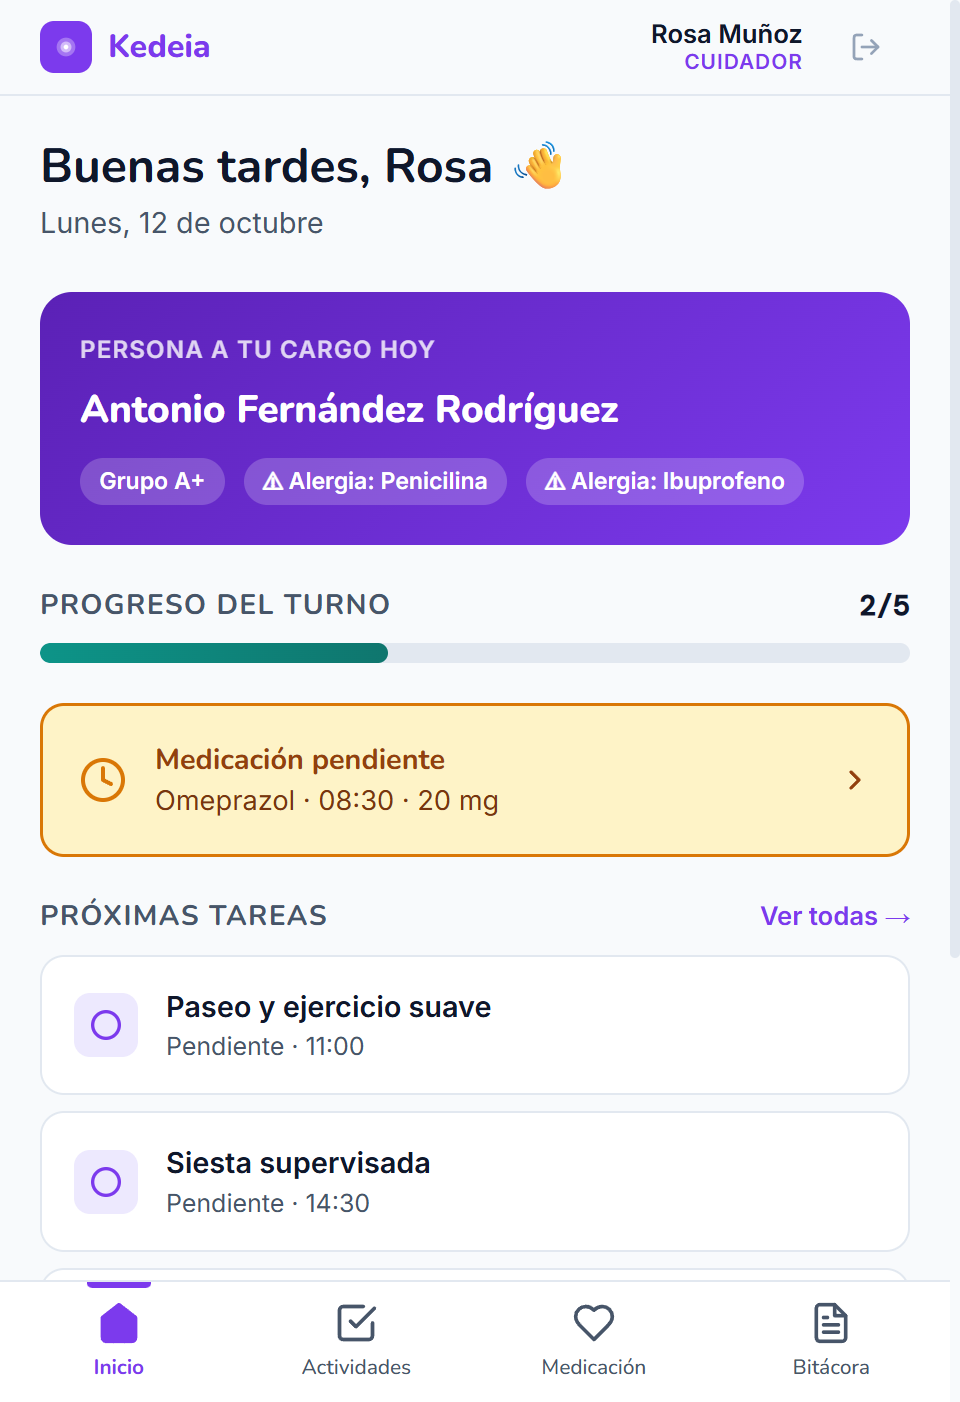
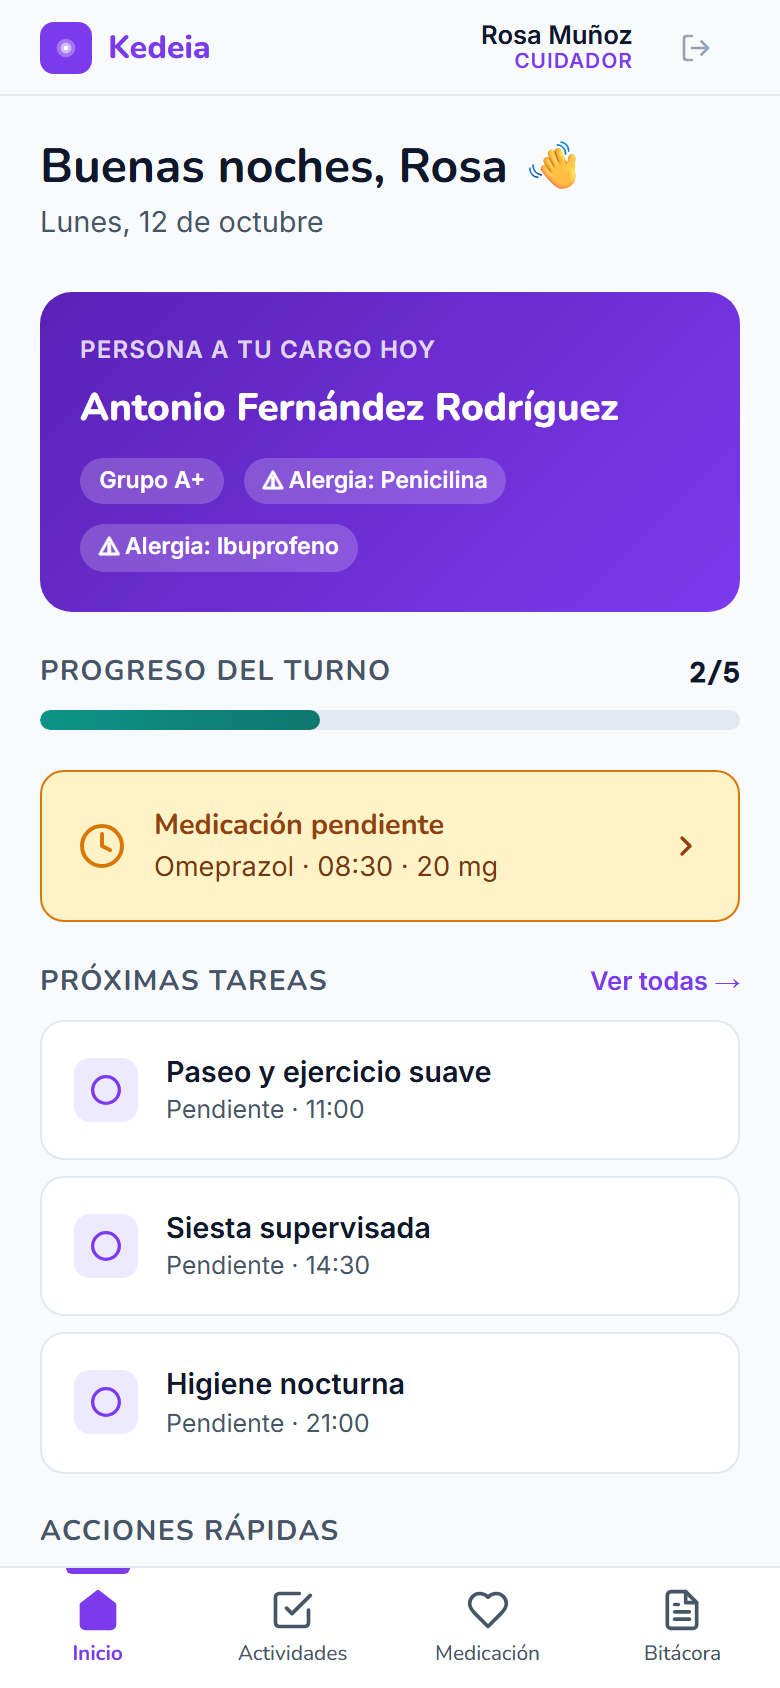
fix: relacion de aspecto estandar 9:19.5 smartphone y capturas completas sin recorte

diff --git a/index.html b/index.html
@@ -88,9 +88,11 @@
     .evidence-aside .caption{margin-top:24px;font-size:22px}
 
     /* Prototipo interactivo Kedeia (Slide 4) */
-    .proto-showcase{display:grid;grid-template-columns:1.75fr 1fr;gap:30px;align-items:stretch;height:515px}
-    .proto-web-card{background:var(--white);border:1px solid var(--line);border-radius:14px;overflow:hidden;box-shadow:0 12px 35px rgba(11,59,63,0.07);display:flex;flex-direction:column}
-    .proto-browser-bar{background:var(--tint);border-bottom:1px solid var(--line);padding:10px 18px;display:flex;align-items:center;justify-content:space-between;gap:16px;flex-shrink:0}
+    .demo-slide{padding:34px 72px 24px}
+    .demo-slide .slide-header{margin-bottom:14px}
+    .proto-showcase{display:grid;grid-template-columns:minmax(0,1fr) 260px;gap:32px;align-items:stretch;height:490px}
+    .proto-web-card{background:var(--white);border:1px solid var(--line);border-radius:14px;overflow:hidden;box-shadow:0 10px 30px rgba(11,59,63,0.07);display:flex;flex-direction:column;height:100%;min-height:0}
+    .proto-browser-bar{background:var(--tint);border-bottom:1px solid var(--line);padding:8px 16px;display:flex;align-items:center;justify-content:space-between;gap:14px;flex-shrink:0}
     .browser-dots{display:flex;gap:6px;align-items:center}
     .dot{width:10px;height:10px;border-radius:5px}
     .dot-red{background:#FF5F56}
@@ -100,15 +102,16 @@
     .browser-role-tag{font-size:13px;font-weight:600;color:var(--teal);letter-spacing:.3px}
     .proto-web-viewport{flex:1;min-height:0;overflow:hidden;background:#F4F6F8;display:flex;align-items:flex-start;justify-content:center}
     .proto-web-img{width:100%;height:100%;object-fit:cover;object-position:top center;display:block}
-    .proto-mobile-card{display:flex;flex-direction:column;align-items:center;gap:8px}
+    .proto-mobile-card{display:flex;flex-direction:column;align-items:center;justify-content:space-between;gap:6px;height:100%;min-height:0}
     .proto-mobile-tabs{display:flex;gap:8px;width:100%;justify-content:center;flex-shrink:0}
-    .proto-tab-btn{display:inline-flex;align-items:center;gap:6px;padding:6px 14px;border-radius:20px;border:1px solid var(--line);background:var(--tint);color:var(--ink);font-size:13px;font-weight:600;transition:all .2s ease}
+    .proto-tab-btn{display:inline-flex;align-items:center;gap:6px;padding:5px 12px;border-radius:20px;border:1px solid var(--line);background:var(--tint);color:var(--ink);font-size:12.5px;font-weight:600;transition:all .2s ease}
     .proto-tab-btn:hover{background:#DCE5DB}
     .proto-tab-btn.active{background:var(--teal);color:var(--white);border-color:var(--teal);box-shadow:0 4px 12px rgba(14,92,99,0.25)}
-    .proto-phone-frame{width:275px;height:418px;background:#1B2421;border-radius:32px;padding:8px;box-shadow:0 16px 40px rgba(11,59,63,0.18);display:flex;flex-direction:column;position:relative;flex-shrink:0}
-    .phone-screen{width:100%;height:100%;background:#FFFFFF;border-radius:24px;overflow:hidden;position:relative}
+    .proto-phone-frame{width:196px;height:416px;background:#181C1A;border-radius:36px;padding:6px;box-shadow:0 14px 36px rgba(11,59,63,0.18),inset 0 0 0 1px #35423E;display:flex;flex-direction:column;position:relative;flex-shrink:0;align-self:center}
+    .phone-speaker{position:absolute;top:3.5px;left:50%;transform:translateX(-50%);width:32px;height:3px;background:#35423E;border-radius:2px;z-index:10;pointer-events:none}
+    .phone-screen{width:184px;height:404px;background:#FFFFFF;border-radius:30px;overflow:hidden;position:relative;aspect-ratio:9/19.5}
     .proto-phone-img{width:100%;height:100%;object-fit:cover;object-position:top center;display:block}
-    .proto-card-caption{font-size:13px;line-height:1.4;color:var(--muted);padding:8px 14px;background:var(--tint);border-top:1px solid var(--line);width:100%;flex-shrink:0;text-align:center}
+    .proto-card-caption{font-size:12px;line-height:1.35;color:var(--muted);padding:5px 10px;background:var(--tint);border-radius:8px;width:100%;flex-shrink:0;text-align:center}
     .proto-card-caption strong{color:var(--ink)}
 
     /* TAM SAM SOM & OCDE (Slide 5) */
@@ -298,6 +301,7 @@
               </button>
             </div>
             <div class="proto-phone-frame">
+              <div class="phone-speaker"></div>
               <div class="phone-screen">
                 <img src="assets/figma_cuidador_mobile.png" alt="Prototipo app móvil cuidador Kedeia" class="proto-phone-img" id="protoCuidadorImg">
                 <img src="assets/figma_mayor_mobile.png" alt="Prototipo app móvil persona mayor Kedeia" class="proto-phone-img" id="protoMayorImg" style="display:none">
